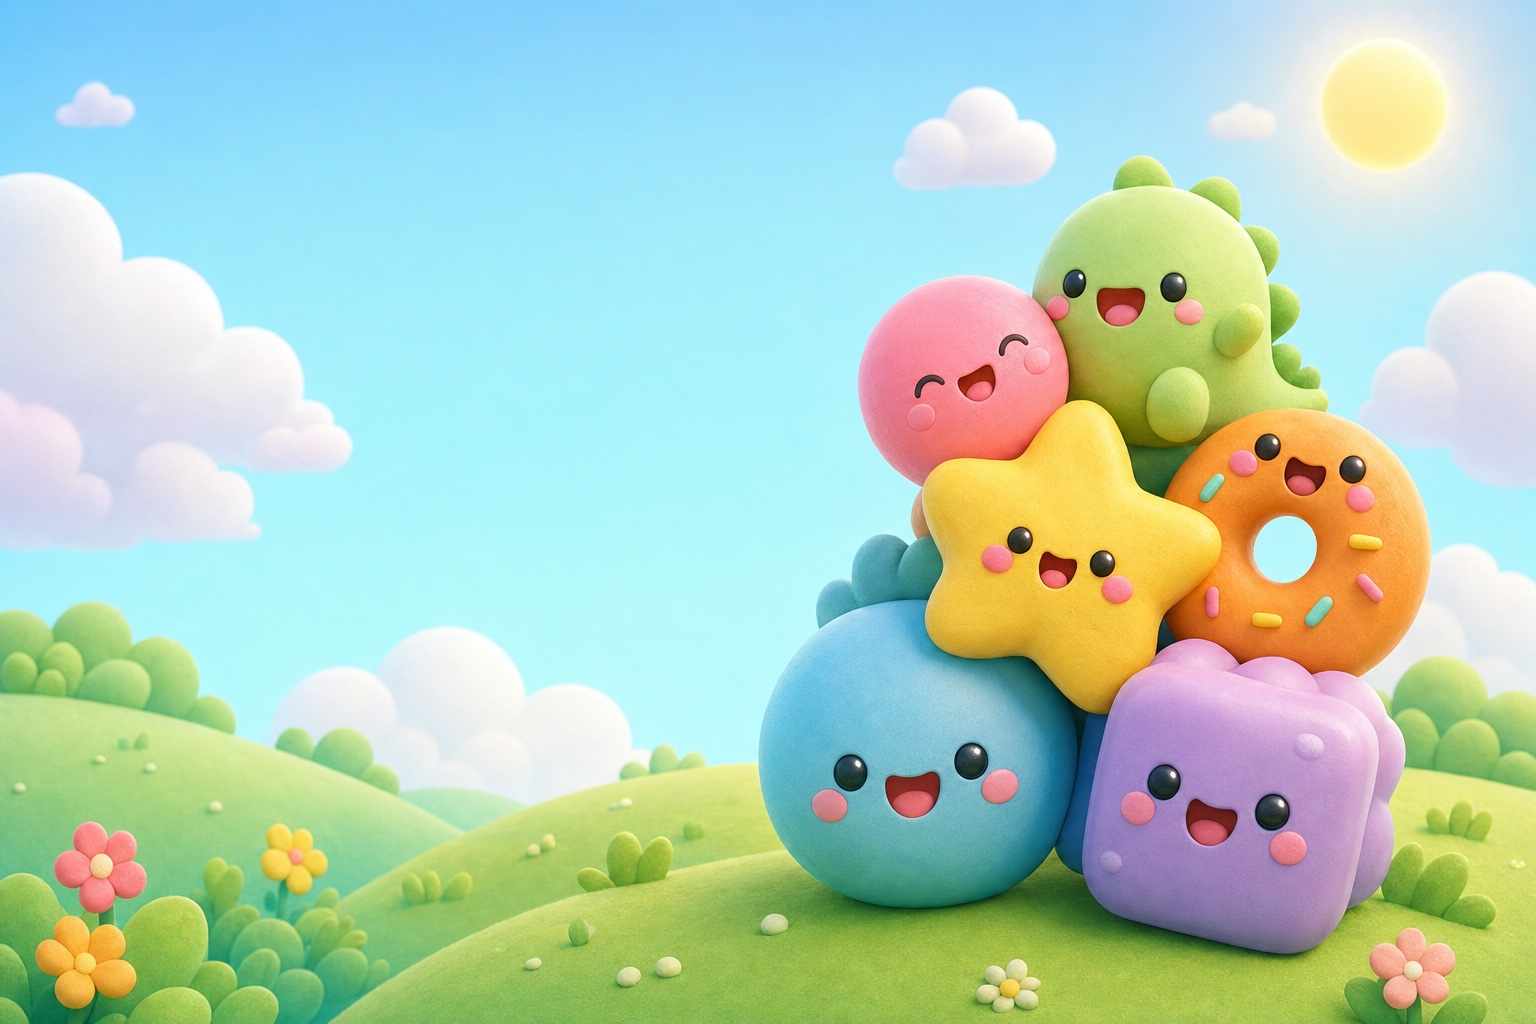
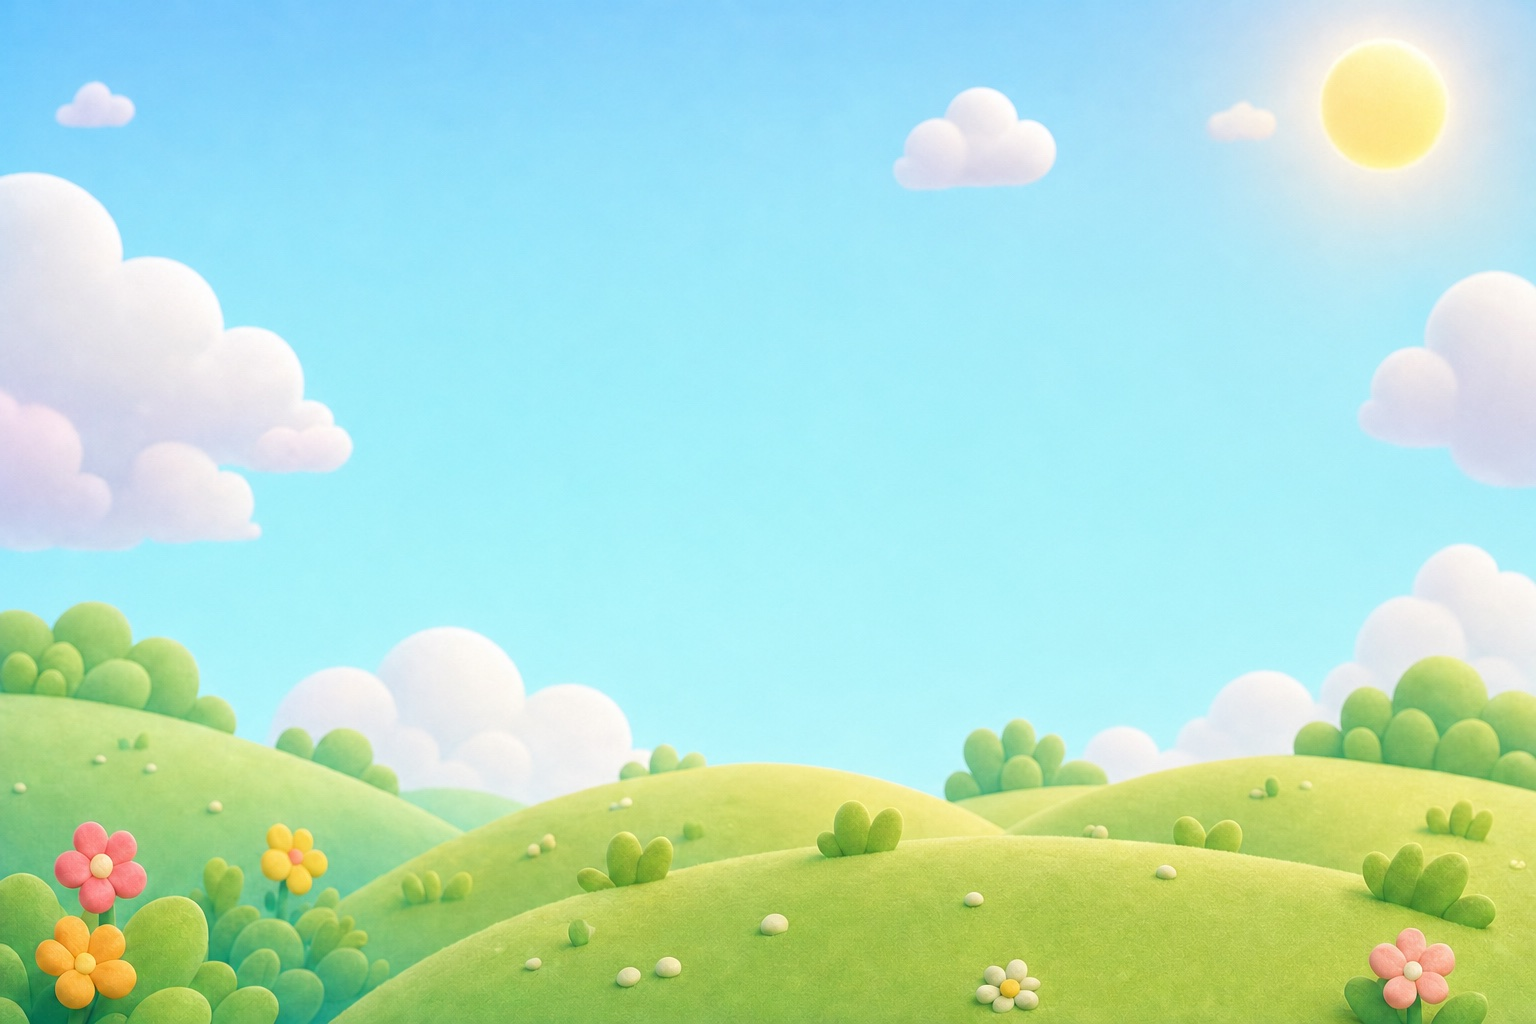
[!] OG 이미지를 코코비 공식 캐릭터로 다시 제작
- og-bg.jpg: imagegen edit 로 장난감 친구들을 지운 빈 언덕 배경
- og-image.jpg: 배경 오른쪽에 kigle.co.kr 공식 3D 코코비 가족, 왼쪽에 로고·제목·주소
- 이전 장난감 버전은 og-image-v2.jpg 로 보관, OG 이미지 주소 버전 v=3

Changed region(s): [[0.4688, 0.1562, 0.9375, 0.9688]]

diff --git a/my/scripts/make-og-image.js b/my/scripts/make-og-image.js
@@ -1,5 +1,6 @@
-// OG 이미지 만들기: imagegen 배경(assets/gen/og-bg.jpg) 위에 로고·제목·주소를 사이트 폰트로 얹어 1200x630 으로 저장
-// 배경은 scripts/prompts.jsonl 의 og-bg 항목 (bash scripts/generate-assets.sh 로 생성)
+// OG 이미지 만들기: imagegen 배경(assets/gen/og-bg.jpg) 위에 코코비 공식 캐릭터와 로고·제목·주소를 얹어 1200x630 으로 저장
+// 배경: scripts/prompts.jsonl 의 og-bg 로 만든 그림에서 imagegen edit 로 장난감들을 지운 빈 언덕
+// 캐릭터: kigle.co.kr 공식 3D 캐릭터 그림 (AI 로 다시 그리지 않고 원본 그대로 사용)
 // 사용: node scripts/make-og-image.js og-image.jpg   (전역 playwright + Chrome 필요)
 const { chromium } = require(require('child_process').execSync('npm root -g').toString().trim() + '/playwright');
 const fs = require('fs');
@@ -26,6 +27,7 @@ const html = `<!doctype html><html><head><meta charset="utf-8">
   h1 { font-weight: 400; font-size: 92px; line-height: 1.12; letter-spacing: -0.01em; text-shadow: 0 5px 0 #fff; }
   h1 span { display: inline-block; color: var(--pink); -webkit-text-stroke: 3px var(--ink); paint-order: stroke fill;
     transform: rotate(-2deg); font-size: 112px; }
+  .chars { position: absolute; right: 18px; bottom: 26px; width: 660px; filter: drop-shadow(0 10px 8px rgba(58,46,92,.18)); }
   .url { position: absolute; left: 64px; bottom: 50px; padding: 10px 24px; font-size: 26px; background: var(--yellow);
     border: var(--line); border-radius: 999px; box-shadow: 0 5px 0 var(--ink); }
 </style></head><body>
@@ -34,6 +36,7 @@ const html = `<!doctype html><html><head><meta charset="utf-8">
     <div class="badge">꼬마공룡 코코비 &amp; 친구들</div>
     <h1>아이들이 처음 노는<br><span>놀이터</span></h1>
   </div>
+  <img class="chars" src="https://kigle.co.kr/img/custom/main_visual_character_m.png" alt="">
   <div class="url">kg-deploy1-wheat.vercel.app</div>
 </body></html>`;
 

diff --git a/my/index.html b/my/index.html
@@ -14,14 +14,14 @@
   <meta property="og:url" content="https://kg-deploy1-wheat.vercel.app/" />
   <meta property="og:title" content="KIGLE · 아이들이 처음 노는 놀이터" />
   <meta property="og:description" content="꼬마공룡 코코비와 친구들이 사는 KIGLE의 놀이터. 앱·영상·동요로 만나는 게임 11종, 전 세계 다운로드 1억 5천만+." />
-  <meta property="og:image" content="https://kg-deploy1-wheat.vercel.app/og-image.jpg?v=2" />
+  <meta property="og:image" content="https://kg-deploy1-wheat.vercel.app/og-image.jpg?v=3" />
   <meta property="og:image:width" content="1200" />
   <meta property="og:image:height" content="630" />
   <meta property="og:image:alt" content="KIGLE 놀이터 첫 화면 — 아이들이 처음 노는 놀이터와 코코비 친구들" />
   <meta name="twitter:card" content="summary_large_image" />
   <meta name="twitter:title" content="KIGLE · 아이들이 처음 노는 놀이터" />
   <meta name="twitter:description" content="꼬마공룡 코코비와 친구들이 사는 KIGLE의 놀이터. 앱·영상·동요로 만나는 게임 11종, 전 세계 다운로드 1억 5천만+." />
-  <meta name="twitter:image" content="https://kg-deploy1-wheat.vercel.app/og-image.jpg?v=2" />
+  <meta name="twitter:image" content="https://kg-deploy1-wheat.vercel.app/og-image.jpg?v=3" />
   <link rel="preconnect" href="https://fonts.googleapis.com" />
   <link rel="preconnect" href="https://fonts.gstatic.com" crossorigin />
   <link href="https://fonts.googleapis.com/css2?family=Jua&display=swap" rel="stylesheet" />
